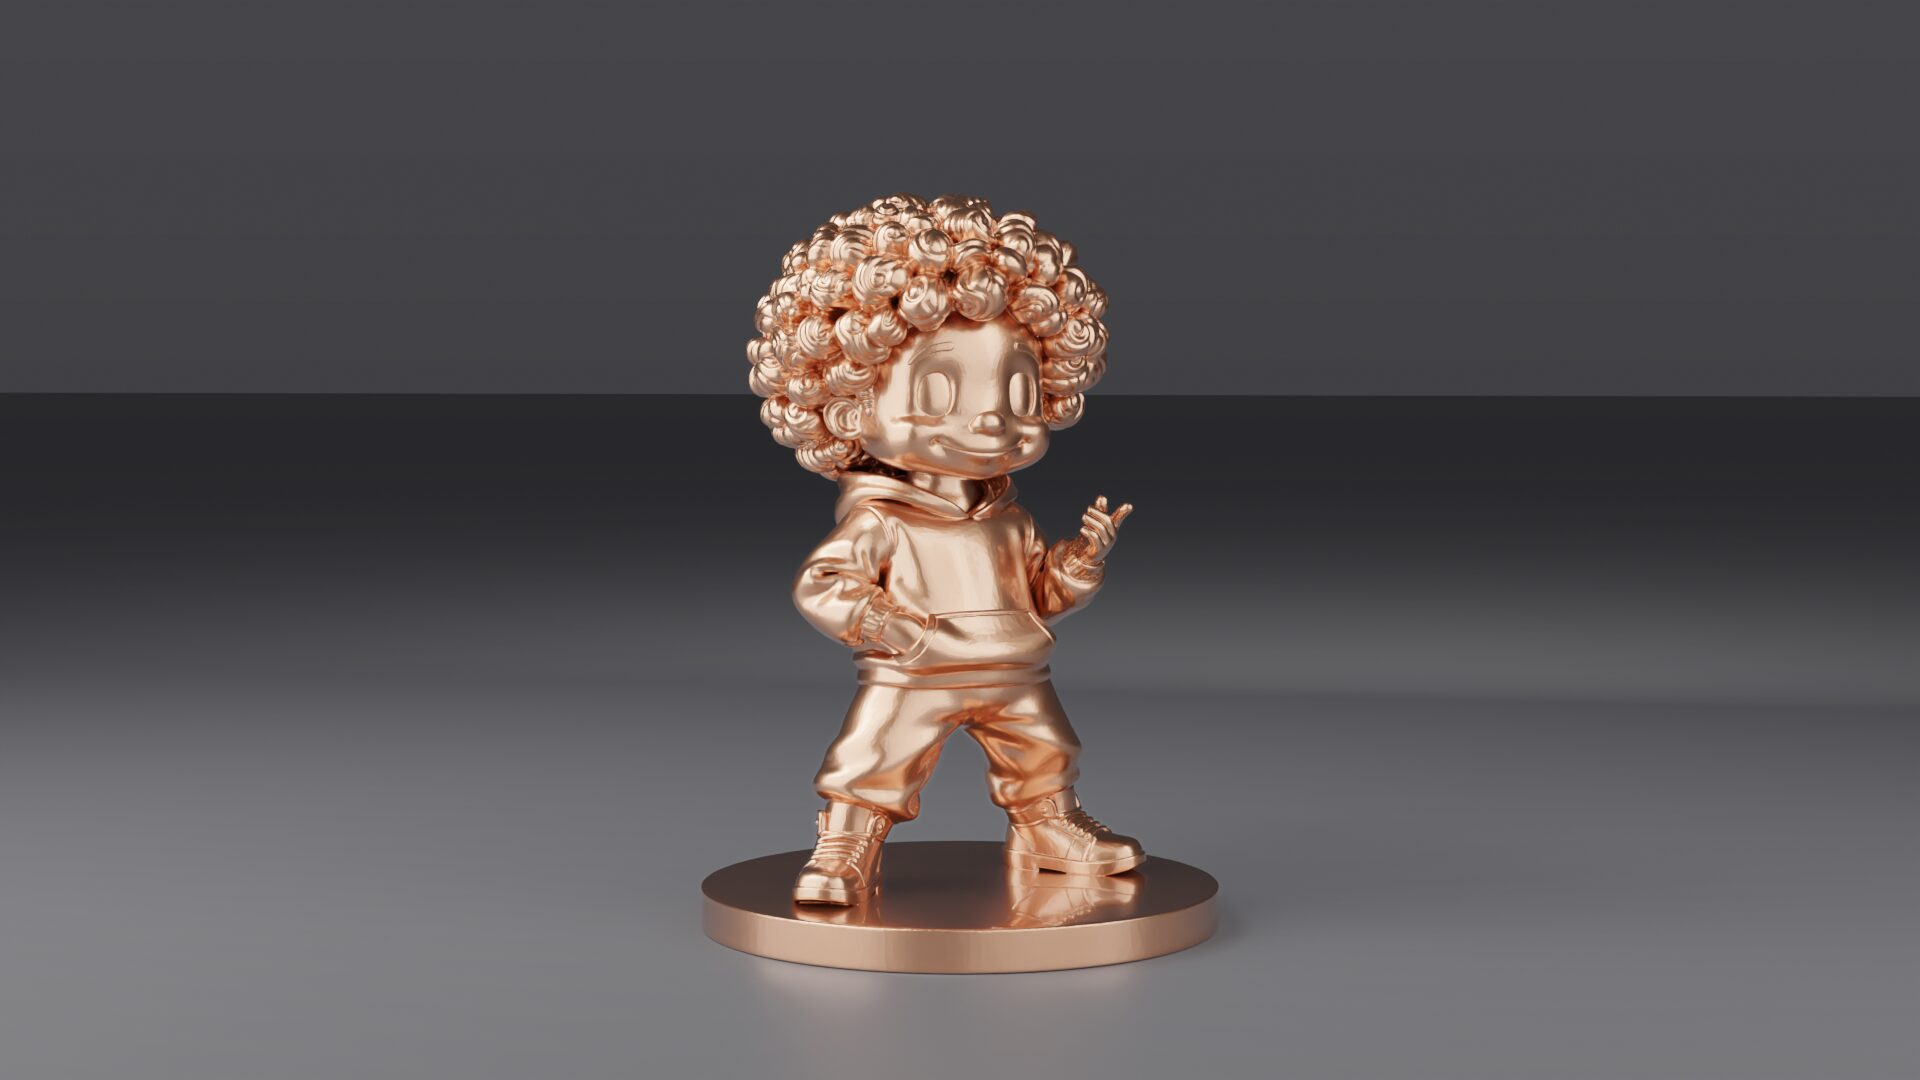
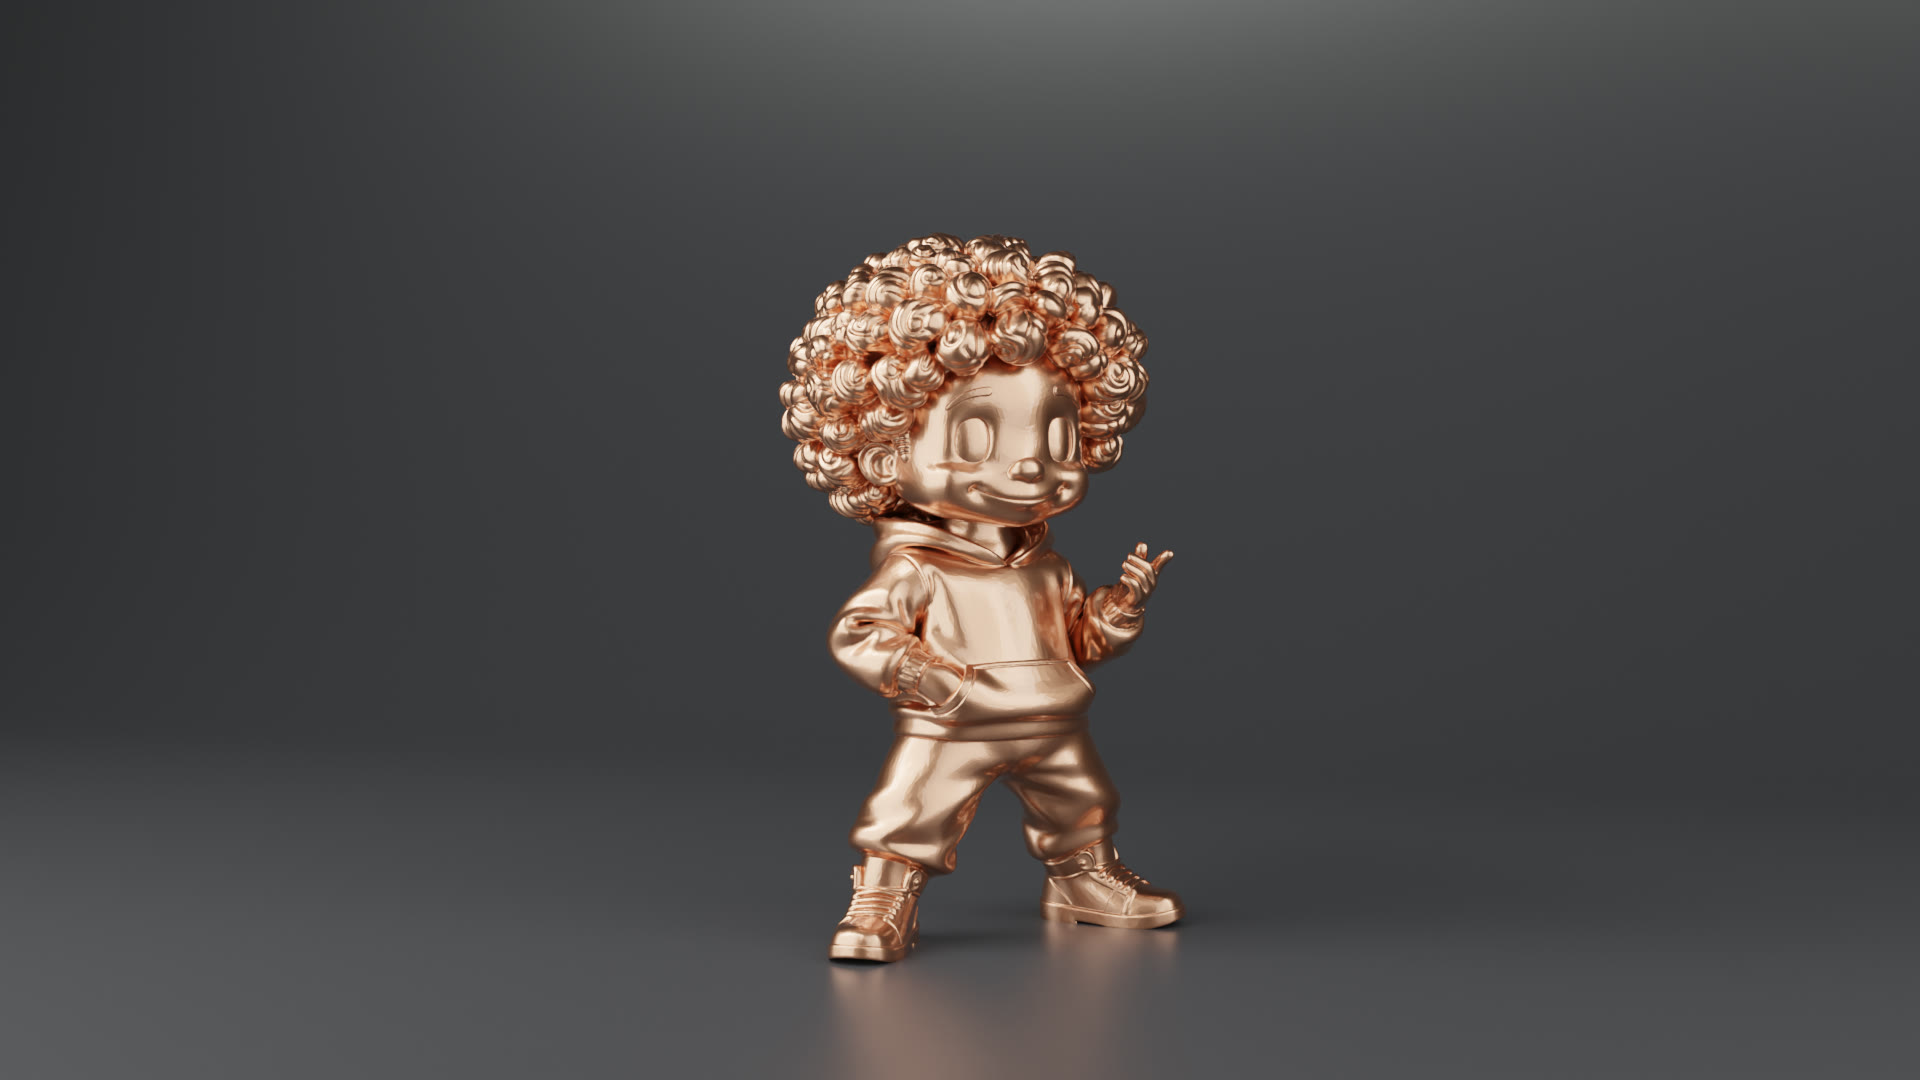
/marfa: hero to the no-base v2 copper still (designer SPEC 11); alt drops the base

diff --git a/marfa/index.html b/marfa/index.html
@@ -76,7 +76,7 @@
            srcset="images/hero-copper-960.jpg 960w, images/hero-copper.jpg 1920w"
            sizes="(max-width: 900px) 100vw, 60vw"
            width="1920" height="1080"
-           alt="A Tangerines figure rendered in copper: a curly-haired kid in a hoodie and joggers, one hand in a pocket, waving, on a round base.">
+           alt="A Tangerines figure rendered in copper: a curly-haired kid in a hoodie and joggers, one hand in a pocket, waving.">
     </div>
     <figcaption class="tg-cap">Shown in copper. The finished figures are painted by hand.</figcaption>
   </figure>
